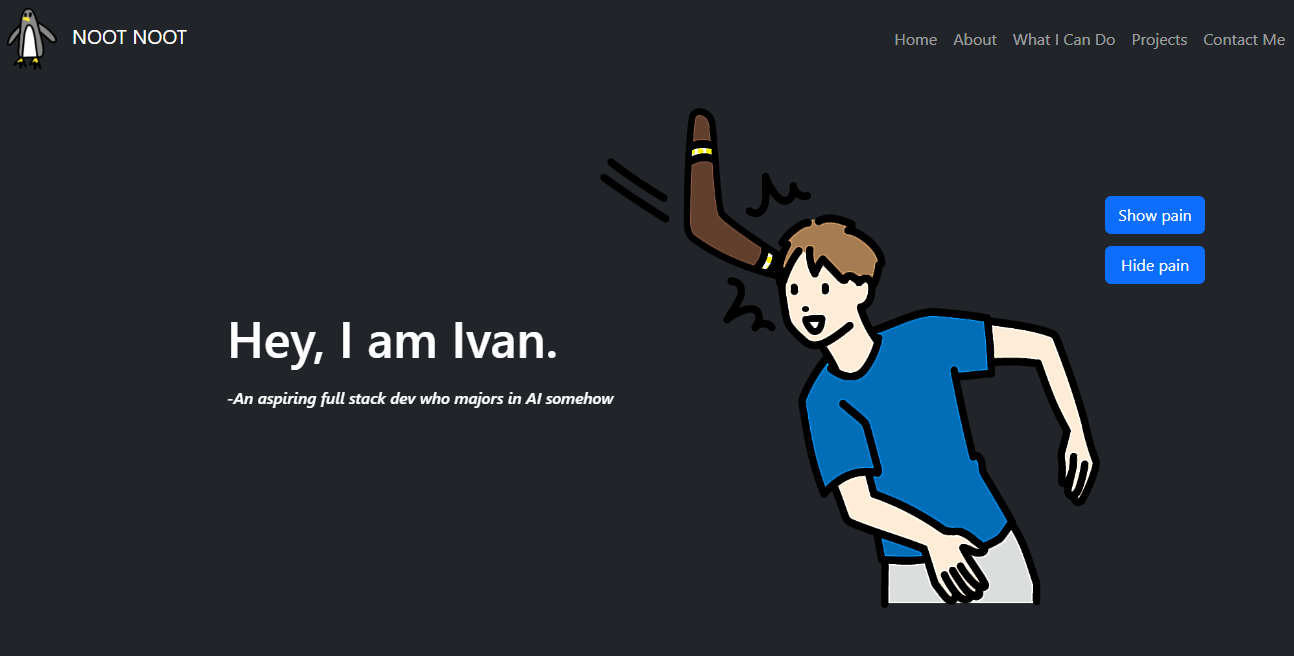
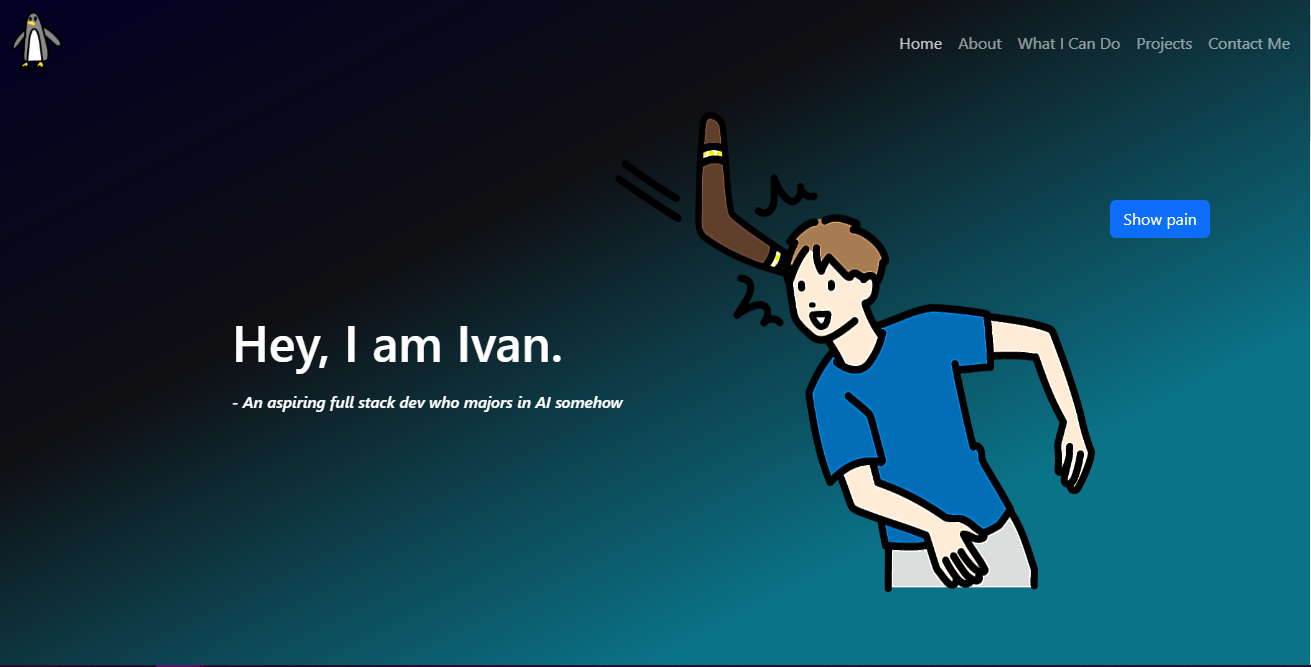
deleted:    vite-project/index.css 	modified:   vite-project/index.html 	new file:   vite-project/index.scss 	modified:   vite-project/public/blog.png 	new file:   vite-project/public/ccsystem.png 	new file:   vite-project/public/quotebot.png 	new file:   vite-project/public/responsebot.png 	modifie

diff --git a/vite-project/src/Projects.jsx b/vite-project/src/Projects.jsx
@@ -1,21 +1,77 @@
+import { useState } from "react";
 import "./Projects.scss";
 
 function Projects() {
+  const [hoveredItem, setHoveredItem] = useState(null);
+
   return (
-    <>
+    <div className="projects-div">
       <div id="randomdiv"></div>
       <div className="projects-container">
         <h1>Projects</h1>
 
         <div className="gallery-wrap">
-          <div className="item item-1"></div>
-          <div className="item item-2"></div>
-          <div className="item item-3"></div>
-          <div className="item item-4"></div>
-          <div className="item item-5"></div>
+          <div
+            className="item item-1"
+            onMouseEnter={() => setHoveredItem("Quote Bot")}
+            onMouseLeave={() => setHoveredItem(null)}
+          ></div>
+
+          <div
+            className="item item-2"
+            onMouseEnter={() => setHoveredItem("Personal Blog")}
+            onMouseLeave={() => setHoveredItem(null)}
+          ></div>
+
+          <div
+            className="item item-3"
+            onMouseEnter={() => setHoveredItem("Admin Dashboard")}
+            onMouseLeave={() => setHoveredItem(null)}
+          ></div>
+
+          <div
+            className="item item-4"
+            onMouseEnter={() => setHoveredItem("Response Bot")}
+            onMouseLeave={() => setHoveredItem(null)}
+          ></div>
+
+          <div
+            className="item item-5"
+            onMouseEnter={() => setHoveredItem("Project")}
+            onMouseLeave={() => setHoveredItem(null)}
+          ></div>
         </div>
+
+        {hoveredItem === "Quote Bot" && (
+          <div className="item-title">
+            <h1>Quote Bot (Python)</h1>
+          </div>
+        )}
+
+        {hoveredItem === "Personal Blog" && (
+          <div className="item-title">
+            <h1>Personal Blog</h1>
+          </div>
+        )}
+
+        {hoveredItem === "Admin Dashboard" && (
+          <div className="item-title">
+            <h1>Admin Dashboard</h1>
+          </div>
+        )}
+
+        {hoveredItem === "Response Bot" && (
+          <div className="item-title">
+            <h1>Response Bot (Python)</h1>
+          </div>
+        )}
+        {hoveredItem === "Project" && (
+          <div className="item-title">
+            <h1>Crowd Control System (Java)</h1>
+          </div>
+        )}
       </div>
-    </>
+    </div>
   );
 }
 

diff --git a/vite-project/src/Navbar.jsx b/vite-project/src/Navbar.jsx
@@ -4,14 +4,14 @@ import "./navbar.css";
 function Navbar() {
   return (
     <header>
-      <nav className="navbar fixed-top navbar-expand-sm navbar-dark bg-dark">
+      <nav className="navbar fixed-top navbar-expand-sm navbar-dark">
         <div className="container-fluid">
           <a className="navbar-brand me-30 mb-2 mb-lg-0" tabIndex="-1" href="#">
             <img
               src="./penguin_color.png"
               className="d-inline-block align-text-center"
             />
-            <span className="penguin-brand">NOOT NOOT</span>
+            <span className="penguin-brand"></span>
           </a>
           <div className="collapse navbar-collapse" id="navbarSupportedContent">
             <ul className="navbar-nav ms-auto mb-2 mb-lg-0">

diff --git a/vite-project/src/App.css b/vite-project/src/App.css
@@ -1,16 +1,19 @@
+* {
+  font-family: -apple-system, system-ui, BlinkMacSystemFont, "Segoe UI", Roboto;
+}
+
 #welcome {
   height: 90vh;
   margin: 0 auto;
   padding: 2rem;
   text-align: center;
-  background-color: #212529;
   color: white;
 }
 
 .welcome-section img#welcome-img {
   /*boomerang_man_color.png*/
-  height: 500px;
-  width: 500px;
+  height: 480px;
+  width: 480px;
   margin-left: 200px;
 }
 
@@ -53,12 +56,6 @@
   right: 100px;
   width: 100px;
 }
-
-html {
-  background-color: #212529;
-  overflow-x: none;
-}
-
 .meirl-div {
   width: 100%;
   height: 90vh;
@@ -78,9 +75,4 @@ html {
 h6 {
   margin-left: 450px;
   text-align: left;
-}
-
-.counter-div {
-  height: 90vh;
-  width: 100%;
 }

diff --git a/vite-project/src/navbar.css b/vite-project/src/navbar.css
@@ -10,3 +10,41 @@
 .penguin-brand {
   padding: 15px;
 }
+
+.nav-link {
+  color: white;
+}
+
+ul {
+  list-style: none;
+}
+a {
+  color: #fff;
+  text-transform: uppercase;
+  text-decoration: none;
+  letter-spacing: 0.15em;
+  display: inline-block;
+  padding: 15px 20px;
+  position: relative;
+}
+a:after {
+  background: none repeat scroll 0 0 transparent;
+  bottom: 0;
+  content: "";
+  display: block;
+  height: 2px;
+  left: 50%;
+  position: absolute;
+  background: #fff;
+  transition: width 0.3s ease 0s, left 0.3s ease 0s;
+  width: 0;
+}
+a:hover:after {
+  width: 100%;
+  left: 0;
+}
+@media screen and (max-height: 300px) {
+  ul {
+    margin-top: 40px;
+  }
+}

diff --git a/vite-project/src/App.jsx b/vite-project/src/App.jsx
@@ -2,9 +2,8 @@ import "./App.css";
 import Welcome from "./Welcome.jsx";
 import Gallery from "./Gallery.jsx";
 import Idk from "./Idkwhattonamethis.jsx";
-import Socials from "./Socials.jsx";
-import Page2 from "./Page2.jsx";
 import Projects from "./Projects.jsx";
+import Socials from "./Socials.jsx";
 
 function App() {
   return (
@@ -24,10 +23,6 @@ function App() {
 
         <section className="page-section">
           <Projects />
-        </section>
-
-        <section className="page-section">
-          <Page2 />
         </section>
 
         <section className="page-section" id="contact-section">

diff --git a/vite-project/index.scss b/vite-project/index.scss
@@ -1,0 +1,35 @@
+html {
+  scroll-behavior: smooth;
+  overflow-x: hidden;
+}
+
+body {
+  background: linear-gradient(
+    to bottom,
+    rgba(2, 0, 36, 1) 0%,
+    rgba(15, 15, 19, 1) 35%,
+    rgba(11, 115, 136, 1) 100%
+  );
+
+  background-size: 100%;
+  background-repeat: no-repeat;
+}
+
+body:before {
+  content: "";
+  position: fixed;
+  top: 0;
+  bottom: 0;
+  width: 100%;
+  z-index: -1;
+  background: linear-gradient(
+    to right bottom,
+    rgba(2, 0, 36, 1) 0%,
+    rgba(15, 15, 19, 1) 35%,
+    rgba(11, 115, 136, 1) 75%
+  );
+}
+
+.navbar-container {
+  z-index: 9;
+}

diff --git a/vite-project/src/Projects.scss b/vite-project/src/Projects.scss
@@ -1,3 +1,12 @@
+* {
+  font: "Open Sans", arial, sans-serif;
+}
+
+.projects-div {
+  height: 100vh;
+  margin-bottom: 280px;
+}
+
 .projects-container {
   padding: 75px 0;
   margin: 0 auto;
@@ -34,7 +43,7 @@
 }
 
 .item-1 {
-  background-image: url("");
+  background-image: url("./quotebot.png");
 }
 
 .item-2 {
@@ -46,9 +55,9 @@
 }
 
 .item-4 {
-  background-image: url("");
+  background-image: url("./responsebot.png");
 }
 
 .item-5 {
-  background-image: url("");
+  background-image: url("./ccsystem.png");
 }

diff --git a/vite-project/src/socials.scss b/vite-project/src/socials.scss
@@ -12,7 +12,7 @@
 .social {
   text-align: center;
   font-size: 2.5em;
-  color: #555;
+  color: #b1b1b1;
   overflow: hidden;
 
   a {
@@ -21,7 +21,7 @@
   }
 
   i {
-    margin: 0.3em;
+    margin: 0.3em auto 200px auto;
     cursor: pointer;
     transition: color 300ms ease, margin-top 300ms ease;
     transform: translateZ(0);
@@ -35,7 +35,7 @@
     &#twitch:hover,
     &#instagram:hover,
     &#discord:hover {
-      color: #b2f0ff;
+      color: #000000;
     }
   }
 }

diff --git a/vite-project/src/Socials.jsx b/vite-project/src/Socials.jsx
@@ -9,7 +9,7 @@ import "./socials.scss";
 
 function Socials() {
   return (
-    <>
+    <div className="socials-div">
       <h1>Contact Me!</h1>
       <img
         className="me"
@@ -60,7 +60,11 @@ function Socials() {
           </i>
         </a>
       </div>
-    </>
+      <br />
+      <br />
+      <br />
+      <br />
+    </div>
   );
 }
 

diff --git a/vite-project/src/Idkwhattonamethis.jsx b/vite-project/src/Idkwhattonamethis.jsx
@@ -5,7 +5,7 @@ function Idk() {
       <div className="meirl-div">
         <img src="i_cant_code.png" id="meirl" />
         <h1>Pros:</h1>
-        <h1>I can make you full stack websites</h1>
+        <h1>I can make full stack websites</h1>
         <h6>- Admin Dashboards</h6>
         <h6>- E-Commerce Websites</h6>
         <h6>- Portfolios</h6>

diff --git a/vite-project/index.html b/vite-project/index.html
@@ -3,7 +3,7 @@
   <head>
     <meta charset="UTF-8" />
     <link rel="icon" type="image/svg+xml" href="/penguin_color.png" />
-    <link rel="stylesheet" href="/index.css" />
+    <link rel="stylesheet" href="/index.scss" />
     <meta name="viewport" content="width=device-width, initial-scale=1.0" />
 
     <title>NOOT NOOT</title>

diff --git a/vite-project/src/Welcome.jsx b/vite-project/src/Welcome.jsx
@@ -10,7 +10,7 @@ function Welcome() {
       top: Math.random() * 100 + "vh",
     };
     return (
-      <p className="randomouch" style={randomPosition}>
+      <p className="randomouch" style={randomPosition} tabIndex="-1">
         help
       </p>
     );
